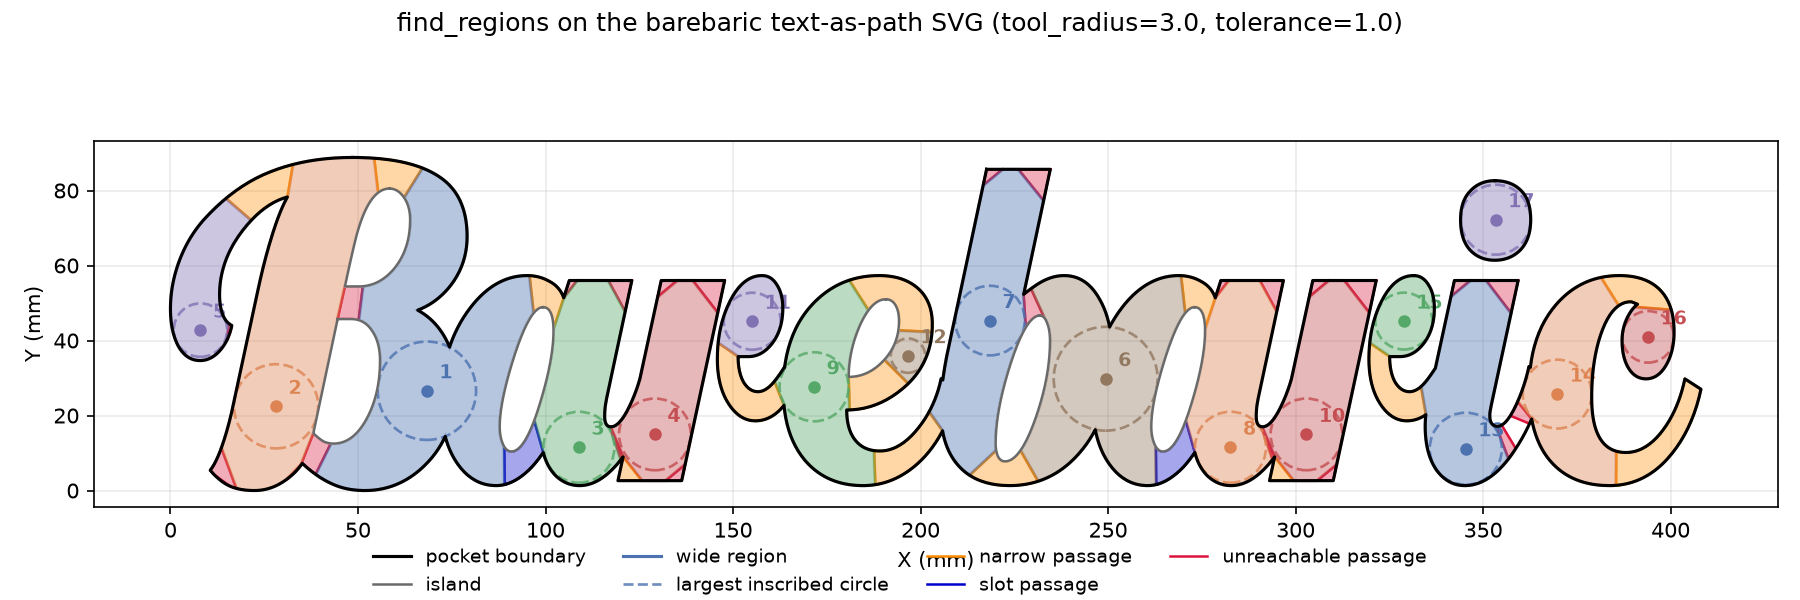
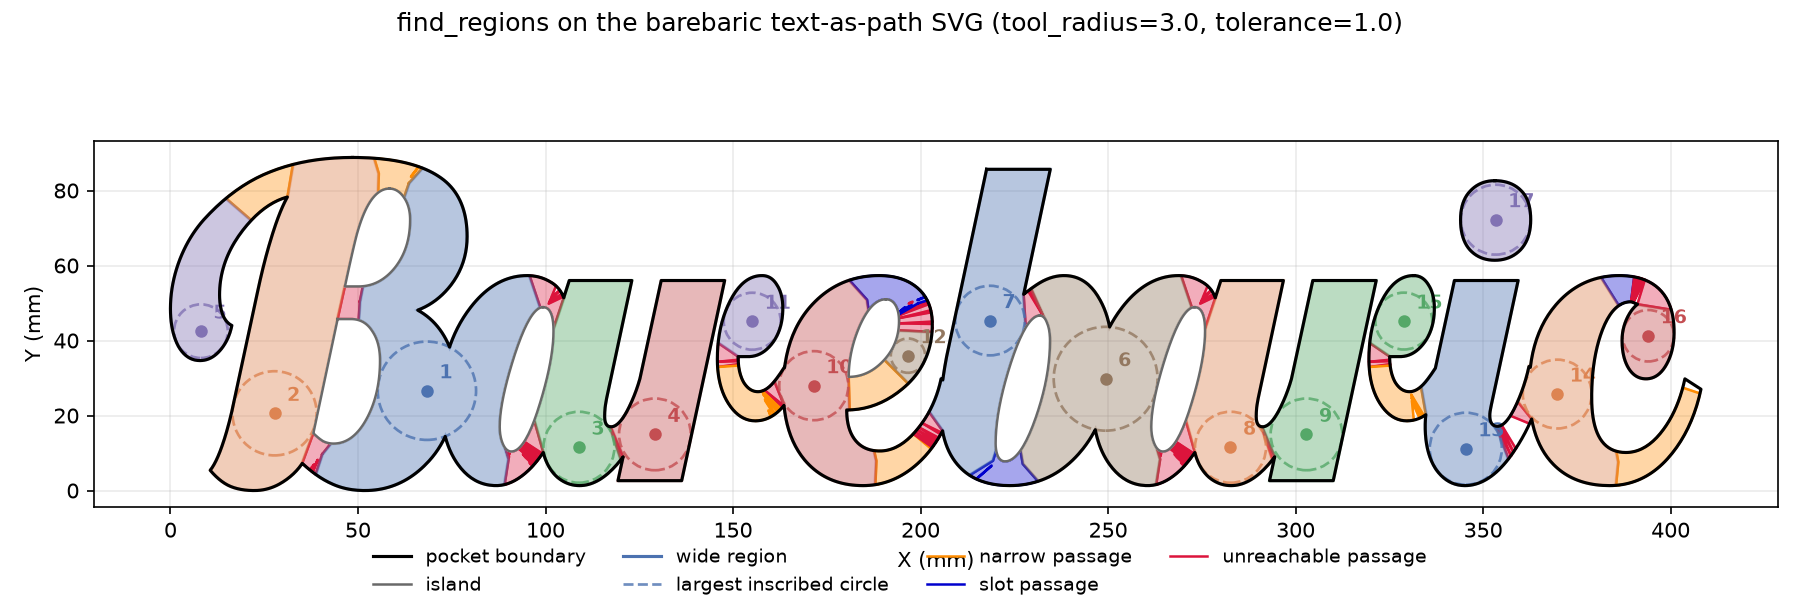
improve narrow region detection to avoid classifying corners

diff --git a/src/geo/algo/narrow.rs b/src/geo/algo/narrow.rs
@@ -1,18 +1,21 @@
-//! Narrow-passage detection via clustered edge-pair convex hulls.
+//! Narrow-passage detection via clustered edge-pair hulls.
 //!
 //! For each edge in the pocket boundary (outer + holes), the nearest
 //! non-excluded edge within `max_width` is found.  Edge pairs are then
 //! grouped into connected clusters: two pairs are connected when their
-//! edges are adjacent (share a vertex) on the same polygon.  One convex
-//! hull is computed per cluster from all collected endpoint vertices.
-//! Each hull is clipped to the pocket (outer − holes) to produce the
-//! final narrow-region polygon.
+//! edges are adjacent (share a vertex) on the same polygon.  Per cluster,
+//! each pair contributes the convex hull of its four endpoint vertices — a
+//! tight, wall-bounded quad (the boundary is resampled into short
+//! sub-segments so per-pair hulls stay small) — and these are unioned and
+//! clipped to the pocket (outer − holes) to produce the final narrow-region
+//! polygon.
 
 use rstar::{PointDistance, RTree, RTreeObject, AABB};
 
 use crate::geo::shape::polygon::{
     clean_polygon, get_polygon_convex_hull, get_polygons_group_difference,
-    get_polygons_group_intersection, is_point_inside_polygon, resample_polygon,
+    get_polygons_group_intersection, get_polygons_union,
+    is_point_inside_polygon, resample_polygon,
 };
 use crate::types::{Point, Polygon};
 
@@ -235,6 +238,15 @@ pub fn find_narrow_passages(
         // sliver off the wall.  Check that the line between the two edge
         // midpoints stays inside the pocket; if it exits, the pair spans
         // open space, not a narrow passage.
+        //
+        // Corner test (outer-boundary pairs only): a passage is bounded by
+        // two roughly *parallel* walls whose lines never meet (slot,
+        // corridor).  Two edges that meet at a convex corner have lines
+        // that intersect at the shared vertex, within `max_width` of the
+        // pair — such pairs are corners, not passages, and would otherwise
+        // inflate the narrow area at sharp corners.  Pairs spanning two
+        // different boundaries (island flanks, island-to-wall) are always
+        // genuine passages, so they are exempt.
         if let Some(nb) = &best {
             let a = entry.midpoint;
             let b = nb.midpoint;
@@ -243,7 +255,32 @@ pub fn find_narrow_passages(
                 holes.iter().any(|h| is_point_inside_polygon(mid, h));
             let in_pocket =
                 is_point_inside_polygon(mid, polygon) && !outside_hole;
-            if !in_pocket {
+            let is_corner =
+                in_pocket && entry.poly_id == 0 && nb.poly_id == 0 && {
+                    let dax = entry.b.x - entry.a.x;
+                    let day = entry.b.y - entry.a.y;
+                    let dbx = nb.b.x - nb.a.x;
+                    let dby = nb.b.y - nb.a.y;
+                    let cr = dax * dby - day * dbx;
+                    let mag = (dax * dax + day * day).sqrt()
+                        * (dbx * dbx + dby * dby).sqrt();
+                    if mag <= 1e-12 || cr.abs() <= 1e-9 * mag {
+                        false
+                    } else {
+                        let wx = nb.a.x - entry.a.x;
+                        let wy = nb.a.y - entry.a.y;
+                        let t = (wx * dby - wy * dbx) / cr;
+                        let px = entry.a.x + t * dax;
+                        let py = entry.a.y + t * day;
+                        let mw2 = max_width * max_width;
+                        let dla2 =
+                            (px - a.x) * (px - a.x) + (py - a.y) * (py - a.y);
+                        let dlb2 =
+                            (px - b.x) * (px - b.x) + (py - b.y) * (py - b.y);
+                        dla2 < mw2 && dlb2 < mw2
+                    }
+                };
+            if !in_pocket || is_corner {
                 best = None;
             }
         }
@@ -382,28 +419,35 @@ pub fn find_narrow_passages(
     for c in clusters.iter_mut() {
         *c = uf.find(*c);
     }
-    // Collect vertices per cluster.
-    let mut cluster_vertices: std::collections::BTreeMap<usize, Vec<Point>> =
+    // Group pair indices by cluster.
+    let mut cluster_pairs: std::collections::BTreeMap<usize, Vec<usize>> =
         std::collections::BTreeMap::new();
-    for (i, p) in pairs.iter().enumerate() {
-        let v = cluster_vertices.entry(clusters[i]).or_default();
-        v.extend_from_slice(&p.pts);
+    for (i, _p) in pairs.iter().enumerate() {
+        cluster_pairs.entry(clusters[i]).or_default().push(i);
     }
 
-    // Compute one convex hull per cluster, then clip to pocket.
+    // Build one passage polygon per cluster as the union of per-pair convex
+    // hulls.  Each edge pair (ea, eb) contributes the convex hull of its four
+    // endpoint vertices — a tight quad that touches both walls.  Because the
+    // boundary is resampled into short sub-segments, each per-pair hull is
+    // small and wall-bounded; unioning them across the cluster follows the
+    // actual wall contour.  This avoids the bulging of a single convex hull
+    // taken over all cluster vertices, which at concave corners or diverging
+    // flanks would span wide area that is not genuinely narrow.
     let mut hulls: Vec<Polygon> = Vec::new();
-    for (_, mut verts) in cluster_vertices {
-        verts.sort_by(|a, b| {
-            a.x.partial_cmp(&b.x)
-                .unwrap()
-                .then(a.y.partial_cmp(&b.y).unwrap())
-        });
-        verts.dedup_by(|a, b| {
-            (a.x - b.x).abs() < 1e-10 && (a.y - b.y).abs() < 1e-10
-        });
-        let hull = get_polygon_convex_hull(&verts);
-        if hull.len() >= 3 {
-            hulls.push(hull);
+    for (_, idxs) in cluster_pairs {
+        let mut pieces: Vec<Polygon> = Vec::new();
+        for &i in &idxs {
+            let p = &pairs[i];
+            let h = get_polygon_convex_hull(&p.pts.to_vec());
+            if h.len() >= 3 {
+                pieces.push(h);
+            }
+        }
+        for q in get_polygons_union(&pieces) {
+            if q.len() >= 3 {
+                hulls.push(q);
+            }
         }
     }
 
